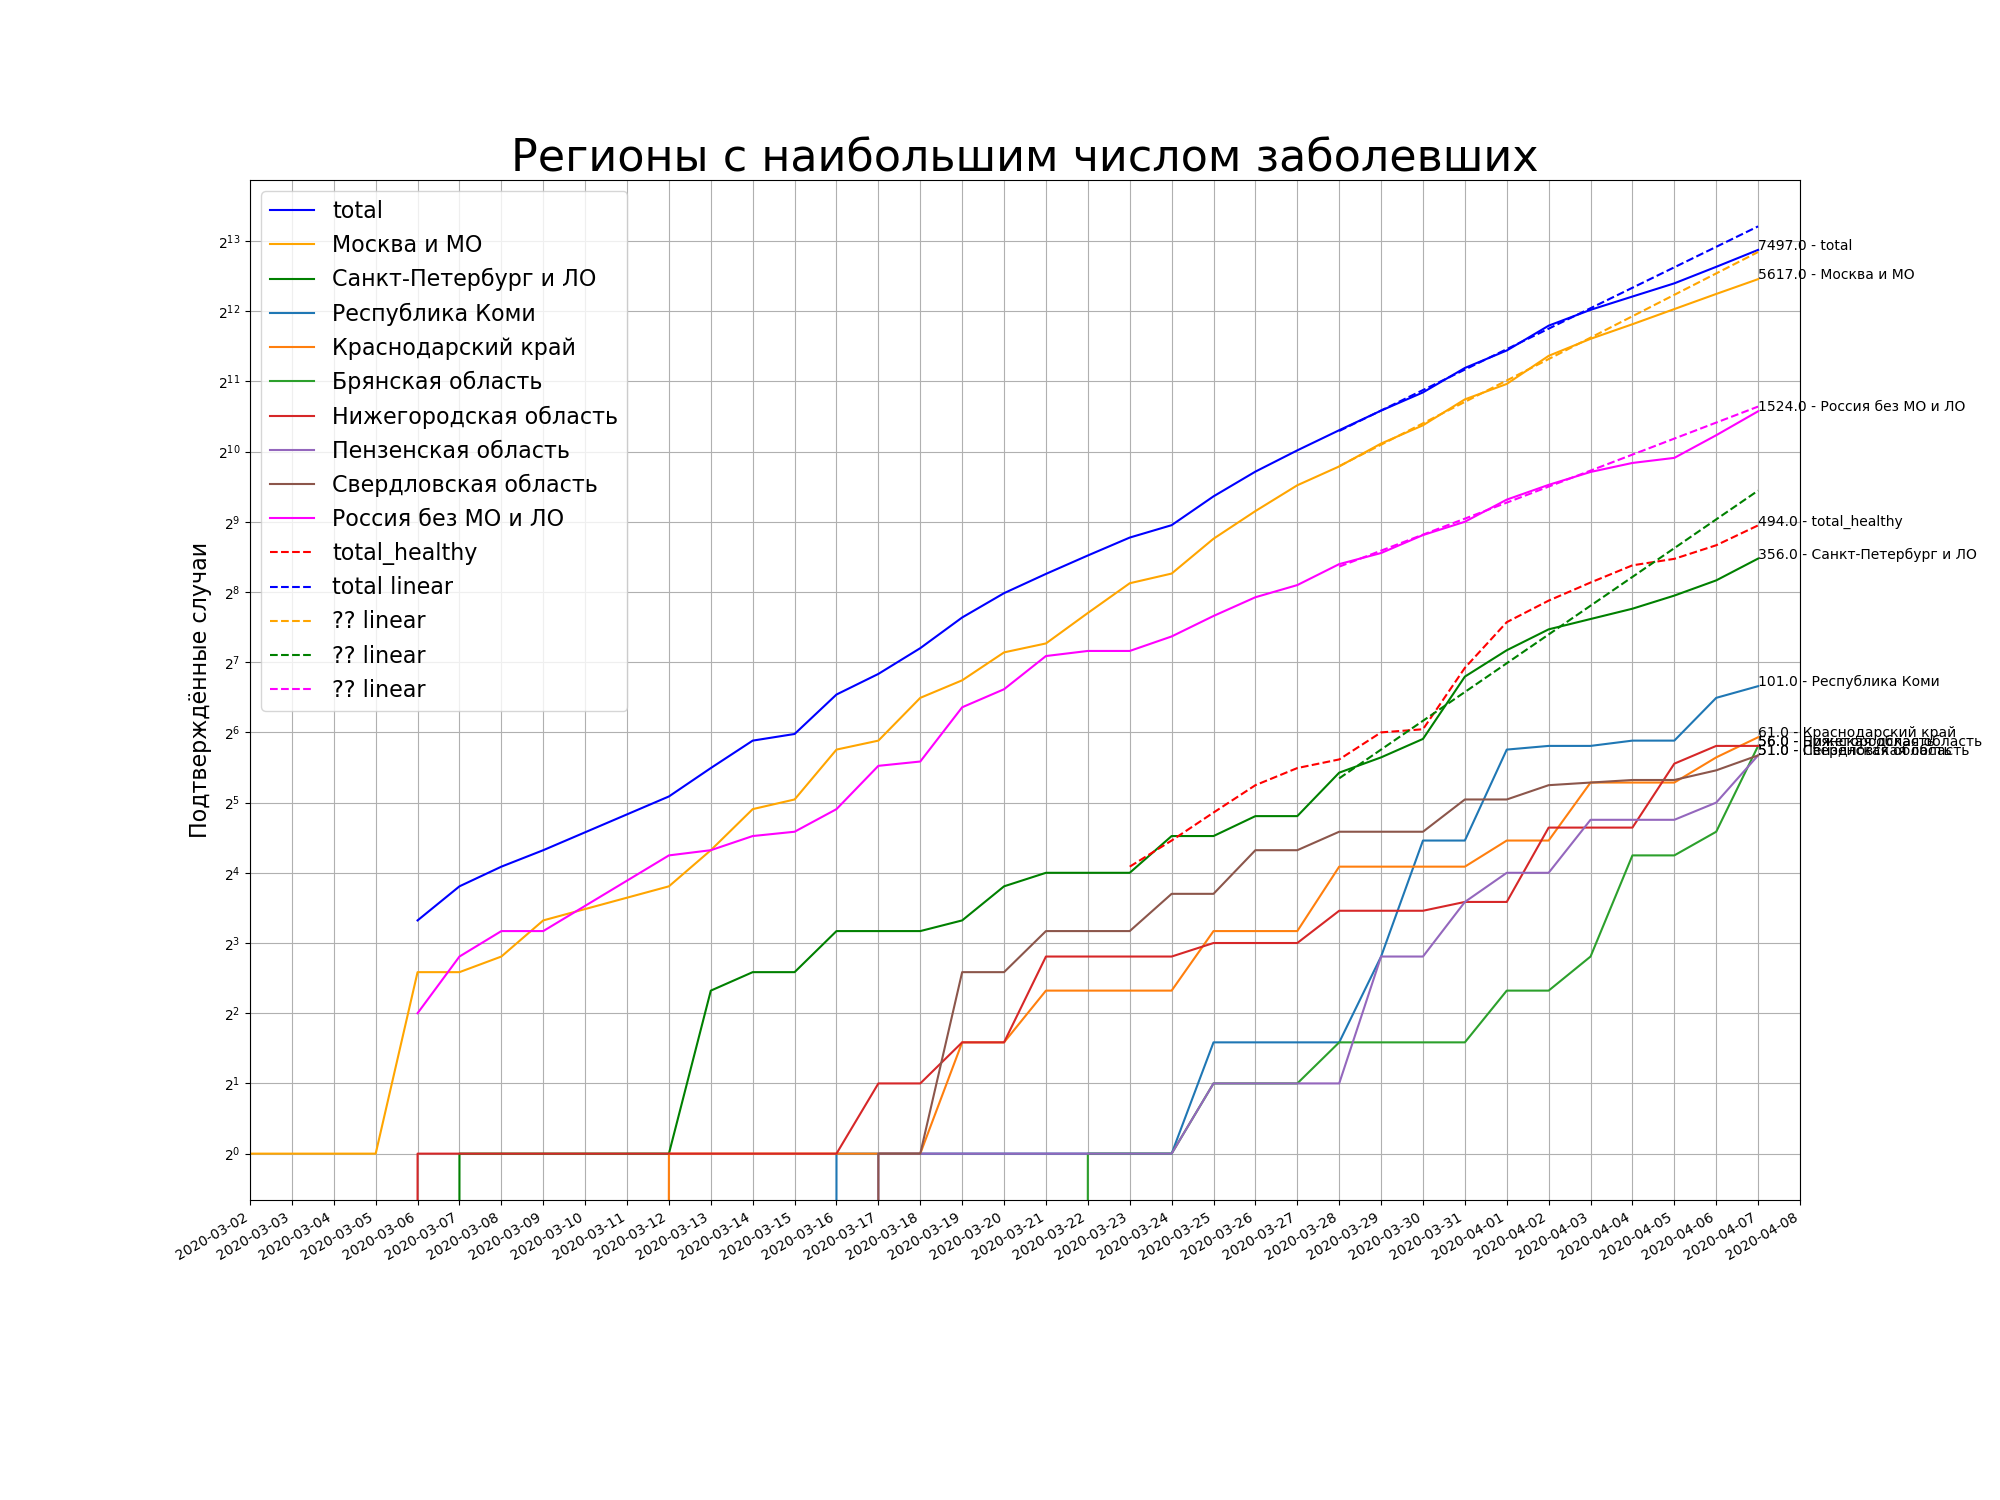
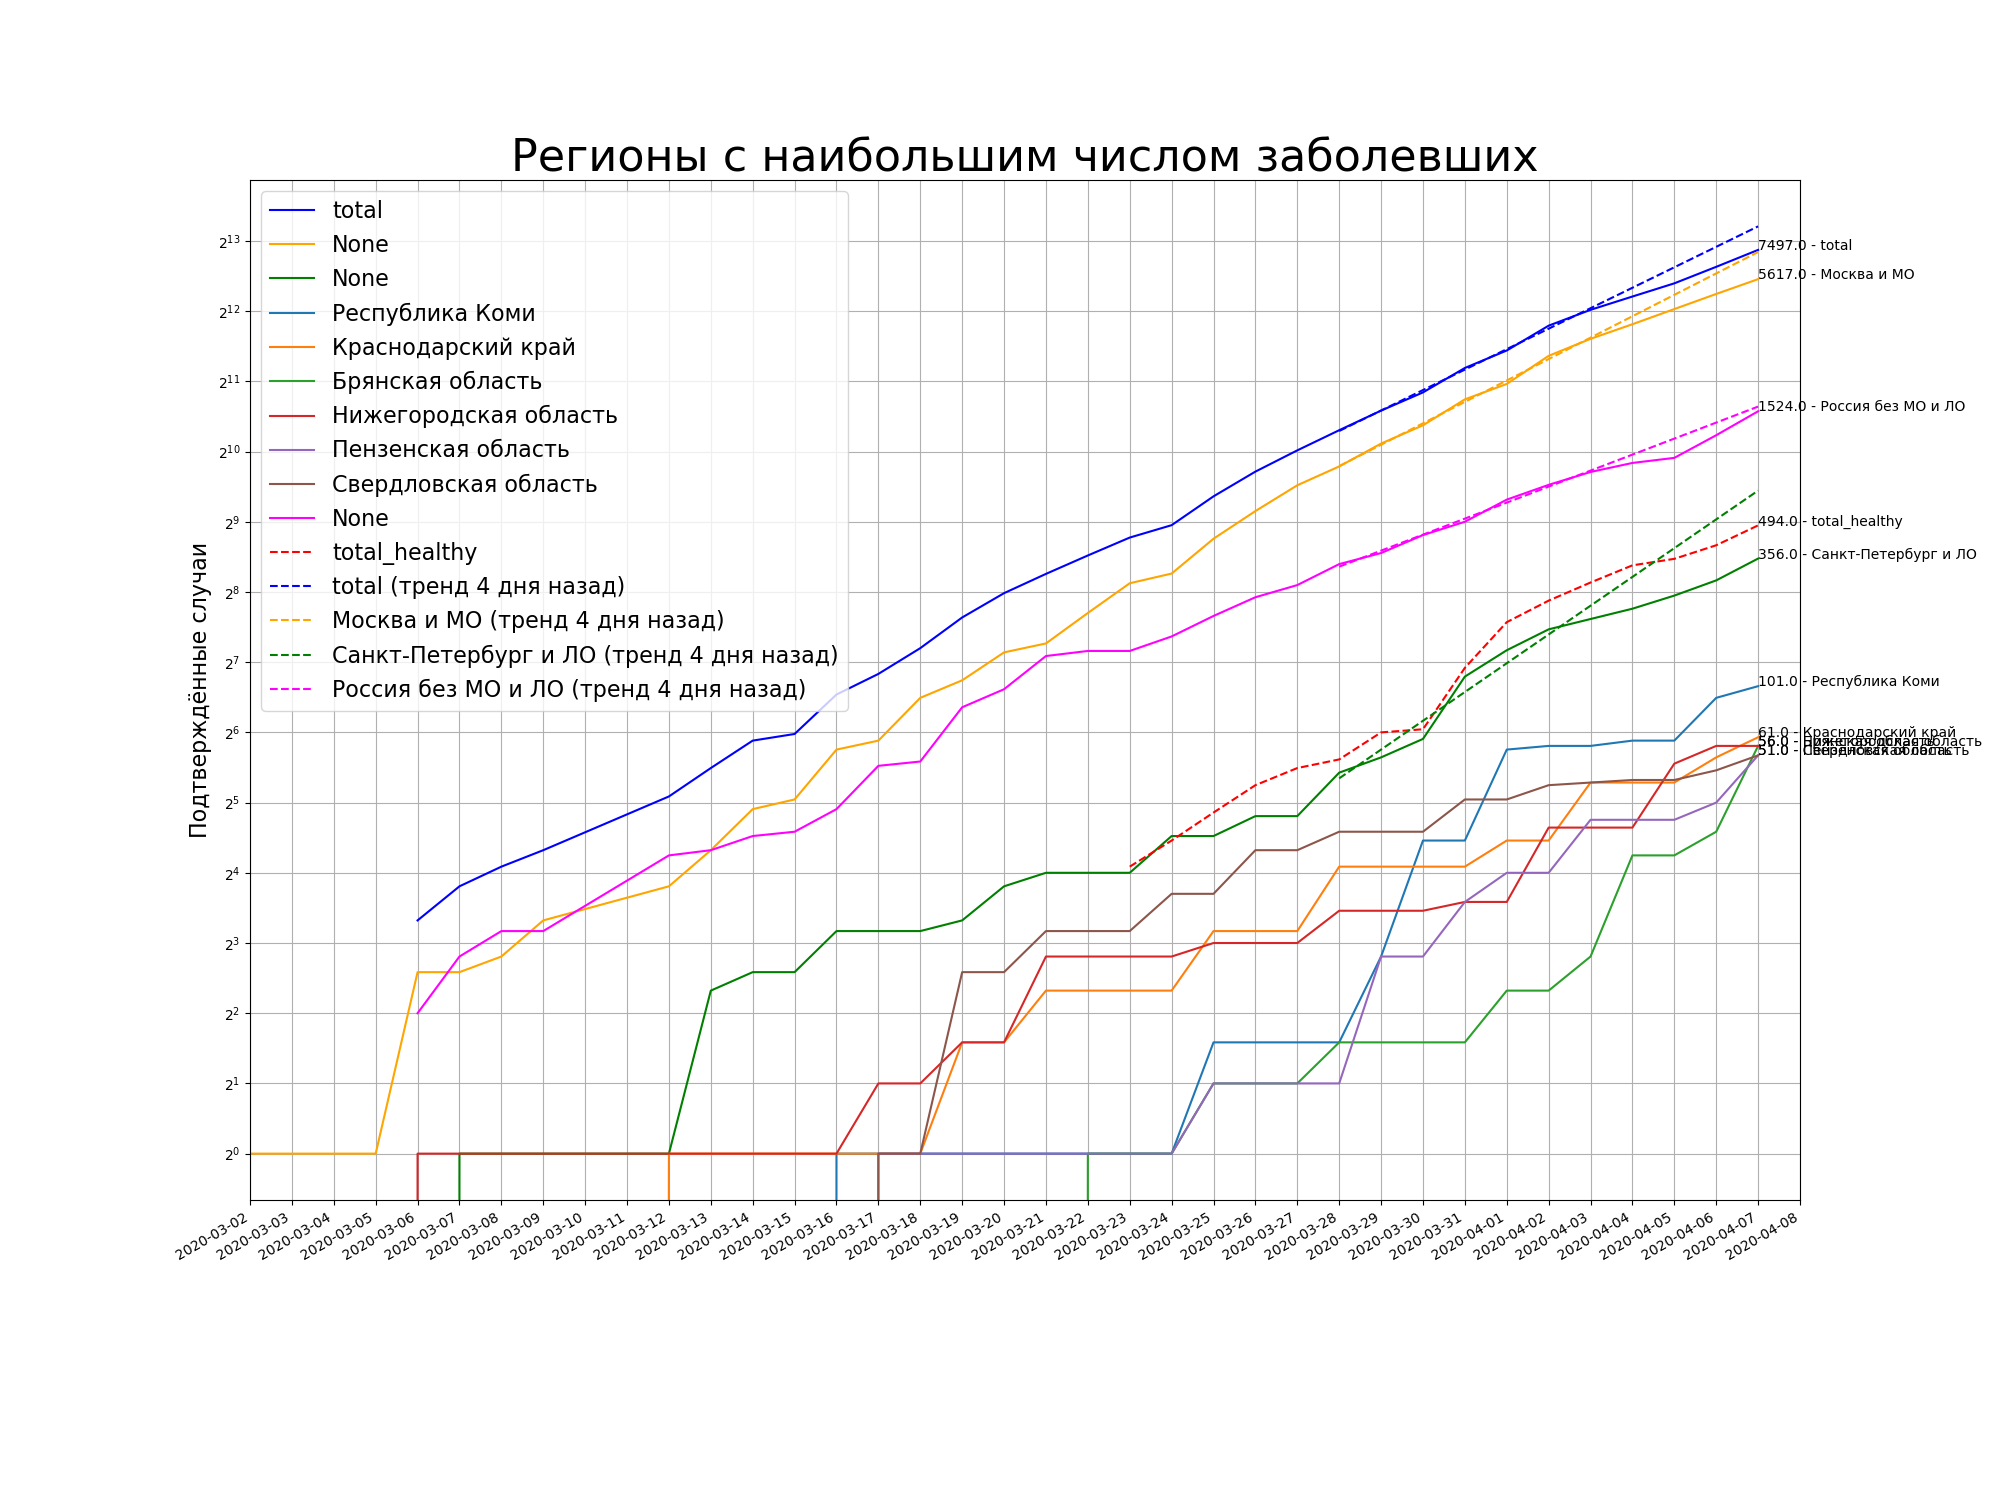
fix labels

Changed region(s): [[0.155, 0.3373, 0.434, 0.4907], [0.186, 0.276, 0.279, 0.3067], [0.155, 0.1533, 0.248, 0.184]]

diff --git a/run.py b/run.py
@@ -36,7 +36,7 @@ def top_regions(dataset, count=10):
                 .index)
 
 
-def regression(series, slice_fit, slice_predict):
+def regression(series, slice_fit, slice_predict, name=None):
     from sklearn.linear_model import LinearRegression
     x = series.index.to_numpy().reshape(-1, 1).astype(int)
     y = numpy.log2(series.fillna(method='ffill').to_numpy())
@@ -45,7 +45,7 @@ def regression(series, slice_fit, slice_predict):
     y_pred = 2**reg.predict(x[slice_predict])
     return pandas.Series(data=y_pred,
                          index=series.index[slice_predict],
-                         name=(series.name or '??') + ' linear')
+                         name=(name or '??') + ' (тренд 4 дня назад)')
 
 
 def get_series_to_plot(dataset):
@@ -82,7 +82,7 @@ def get_series_to_plot(dataset):
                                    'matplotlib': {'linestyle': '--', 'color': 'red'}}
 
     for name in ['total', 'Москва и МО', 'Санкт-Петербург и ЛО', 'Россия без МО и ЛО']:
-        all_series[name + ' linear'] = {'data': regression(all_series[name]['data'], slice(4, 11), slice(0, 11)),
+        all_series[name + ' linear'] = {'data': regression(all_series[name]['data'], slice(4, 11), slice(0, 11), name=name),
                                         'matplotlib': {'linestyle': '--', 'color': all_series[name]['matplotlib']['color']},
                                         'annotate': False}
 
@@ -101,7 +101,7 @@ def get_matplotlib_figure(all_series):
             plot_params = {}
             params = {}
 
-        series.plot(ax=ax, label=(name if params.get('annotate', True) else None), **plot_params)
+        series.plot(ax=ax, **plot_params)
         if params.get('annotate', True):
             ax.annotate(f'{series[0]} - {name}', (series.index[0], series[0]))
 
